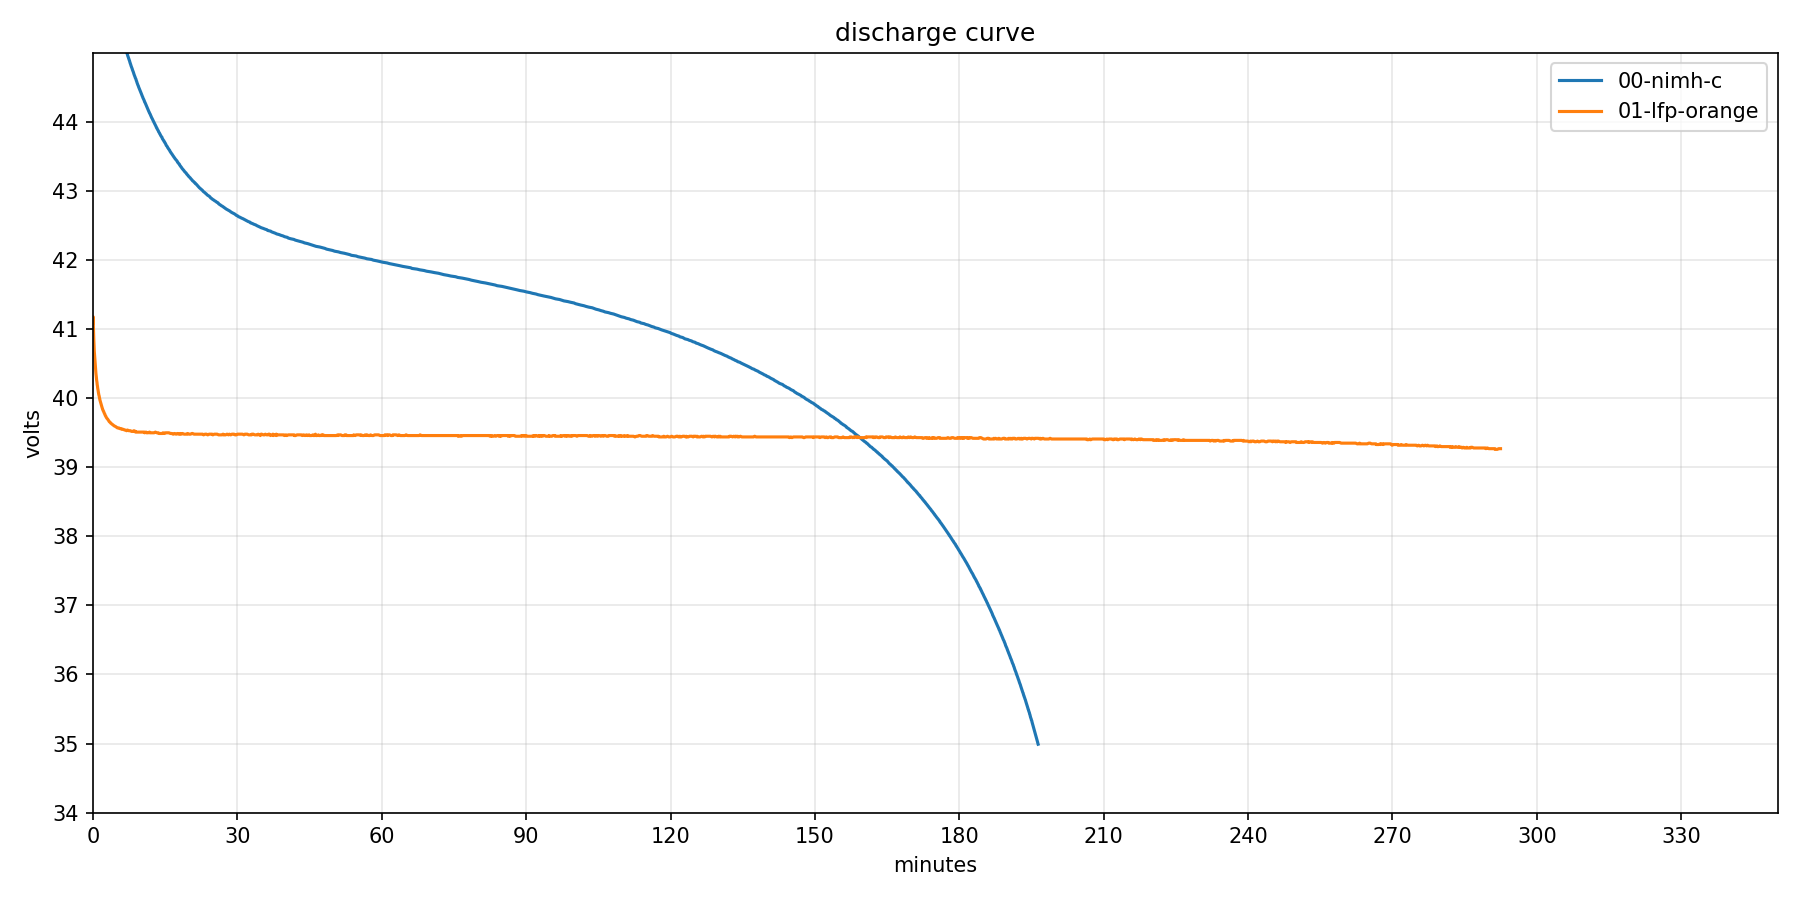
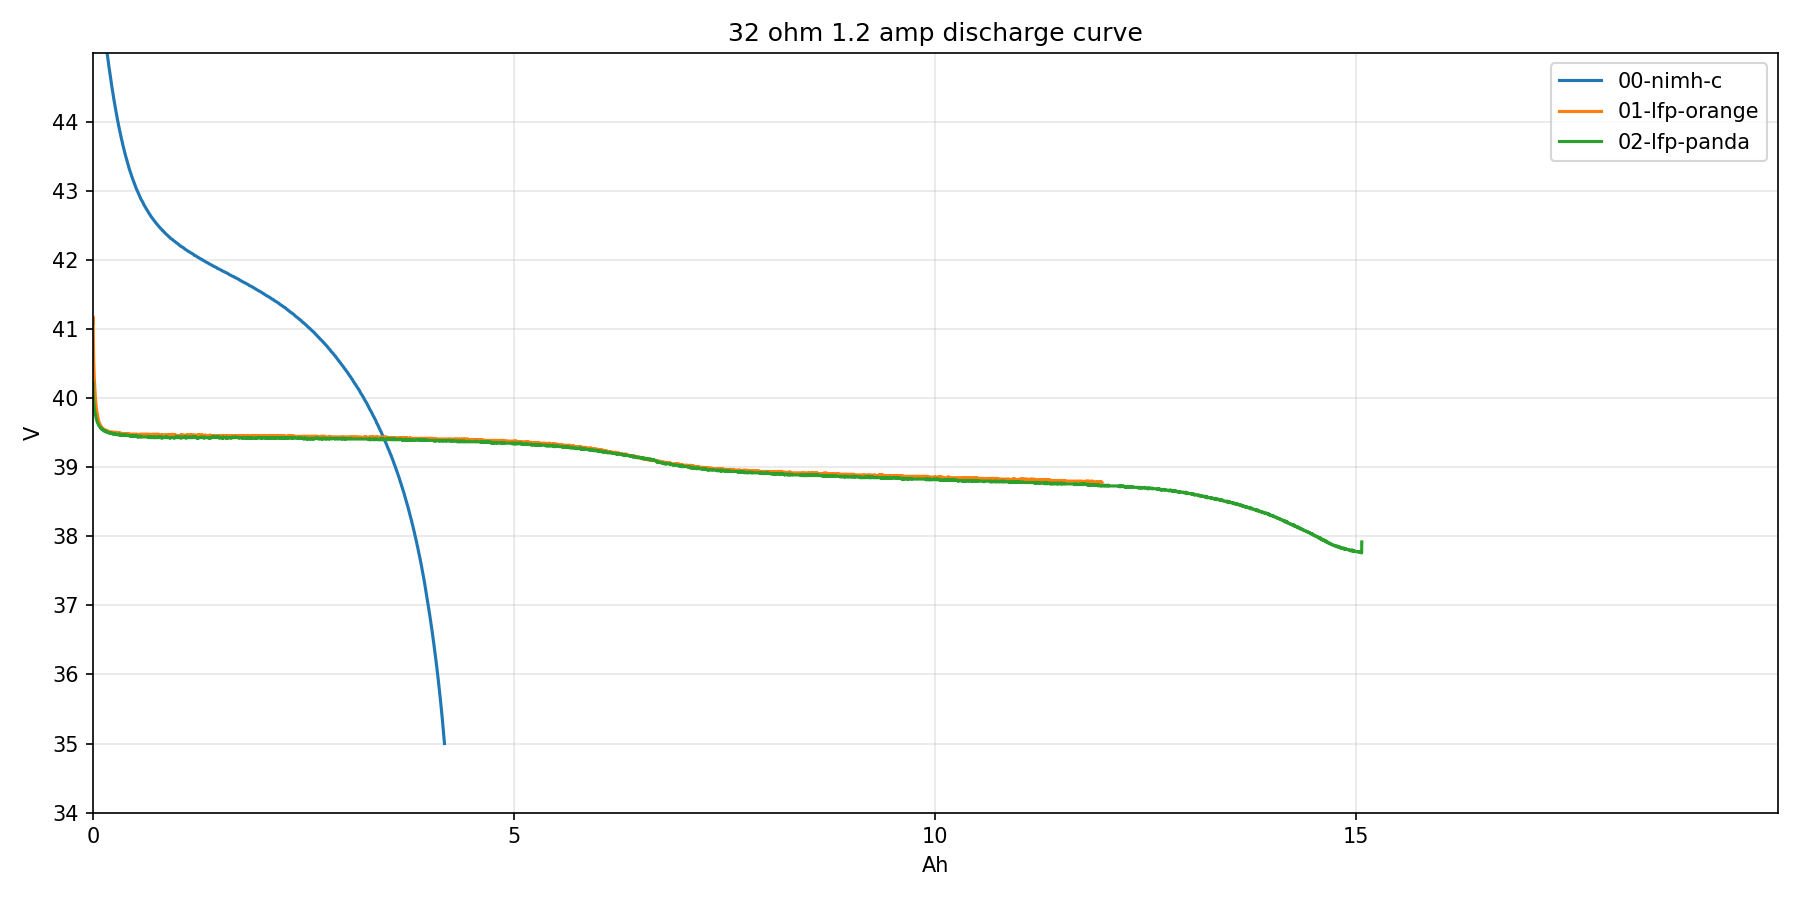
checkpoint

diff --git a/discharge.py b/discharge.py
@@ -18,8 +18,8 @@ def discharge_loop(ser, load, discharge, discharge_rate):
     skip = 0
     skipcount = 30
 
-    #      time    volts     mah
-    fmt = "{:7.2f},{:4.2f},{:6.1f}"
+    #      time    volts     ah
+    fmt = "{:7.3f},{:6.2f},{:7.4f}"
     while True:
         l = ser.readline()
         if not len(l):
@@ -61,7 +61,7 @@ def discharge_loop(ser, load, discharge, discharge_rate):
             # start the clock once we drop half a volt from peak
             if (peak - v) > .1:
                 print('on load!',file=stderr)
-                print('"time (m)","v","mAh"')
+                print('"time (m)",V,Ah')
                 print(fmt.format(0,peak,0))
                 lastprint = start = tick
                 lastv = peak
@@ -80,7 +80,9 @@ def discharge_loop(ser, load, discharge, discharge_rate):
             skip = 0
 
             # calc time delta
+            # dt in seconds
             dt = tick - lastprint
+
             lastprint = tick
 
 
@@ -91,8 +93,10 @@ def discharge_loop(ser, load, discharge, discharge_rate):
 
             # calc a/hour used over time delta
             a = v/load # this is current 'lower' voltage, err conservative
-            dah = a * dt/3600 * 1000 # amp * % hour * milli
-            tah = tah + dah
+            ah = a * dt/3600
+            tah = tah + ah
+            # given time, v
+            # ah =C2+B3/16.1*(A3-A2)/60
             print(fmt.format(runtime/60,v,tah))
         else:
             skip = skip + 1
@@ -111,7 +115,7 @@ def discharge_loop(ser, load, discharge, discharge_rate):
 if __name__ == '__main__':
     import argparse
     argp = argparse.ArgumentParser( description = 'battery discharge montoring' )
-    argp.add_argument( '--load'      , dest='load'      , nargs='?' , type=float , default=16.1 , help="Load resistance")
+    argp.add_argument( '--load'      , dest='load'      , nargs='?' , type=float , default=8.2 , help="Load resistance")
     argp.add_argument( '--volt'      , dest='discharge' , nargs='?' , type=float , default=35.0 , help="Discharge end voltage")
     argp.add_argument( '--rate'      , dest='rate'      , nargs='?' , type=float , default=None  , help="Discharge dv/min limit")
 

diff --git a/graph-discharge.py b/graph-discharge.py
@@ -5,35 +5,49 @@ from glob import glob
 import matplotlib.pyplot as plt
 import numpy as np
 import pandas as pd
+from math import floor, ceil
 
-max_time = 350
+plot_ah = True
+max_ah = 20 
+max_time = 60*4
 
 fig = plt.figure()
 # fig.set_axisblow(True)
 ax = fig.add_subplot(1, 1, 1)
-ax.set_title('discharge curve')
+ax.set_title('8 ohm discharge curve')
 
-ax.set_xlim([0, max_time])
-ax.set_xlabel('minutes')
-ax.set_xticks(range(0, max_time, 30))
+if plot_ah:
+    ax.set_xlim([0, max_ah])
+    ax.set_xlabel('Ah')
+    ax.set_xticks(range(0, max_ah, 5))
+else:
+    ax.set_xlim([0, max_time])
+    ax.set_xlabel('Minute')
+    ax.set_xticks(range(0, max_time, 30))
 
-# ax2 = ax.twinx()
+ax2 = ax.twinx()
 
-ax.set_ylim([34, 45])
-ax.set_yticks(range(34, 45))
-ax.set_ylabel('volts')
+y_lo=34
+y_hi=44
+
+ax.set_ylim([y_lo, y_hi])
+ax.set_yticks(range(y_lo, y_hi))
+ax.set_ylabel('V')
 
 ax.grid(alpha=.3)
 
-# ax2.set_ylim([0,400])
-# ax2.set_yticks(range(0,400,100))
-# ax2.set_ylabel('wh')
+ax2.set_ylim([y_lo/12,y_hi/12])
+# ax2.set_yticks(range(floor(35/12), ceil(40/12),.1))
+ax2.set_ylabel('V Cell')
 
 
 for f in sorted(glob('*.csv')):
     t = f.replace('.csv', '')
     a = pd.read_csv(f, dtype={'time (m)': np.float64}, engine='python', skipfooter=1)  # .drop(columns=['wh'])
-    ax.plot(a['time (m)'], a['v'], label=t, linestyle='-')
+    if plot_ah:
+        ax.plot(a['Ah'], a['V'], label=t, linestyle='-')
+    else:
+        ax.plot(a['time (m)'], a['V'], label=t, linestyle='-')
     # ax2.plot(a['time (m)'],a['wh'],label=f, linestyle='--')
 
 ax.legend()
